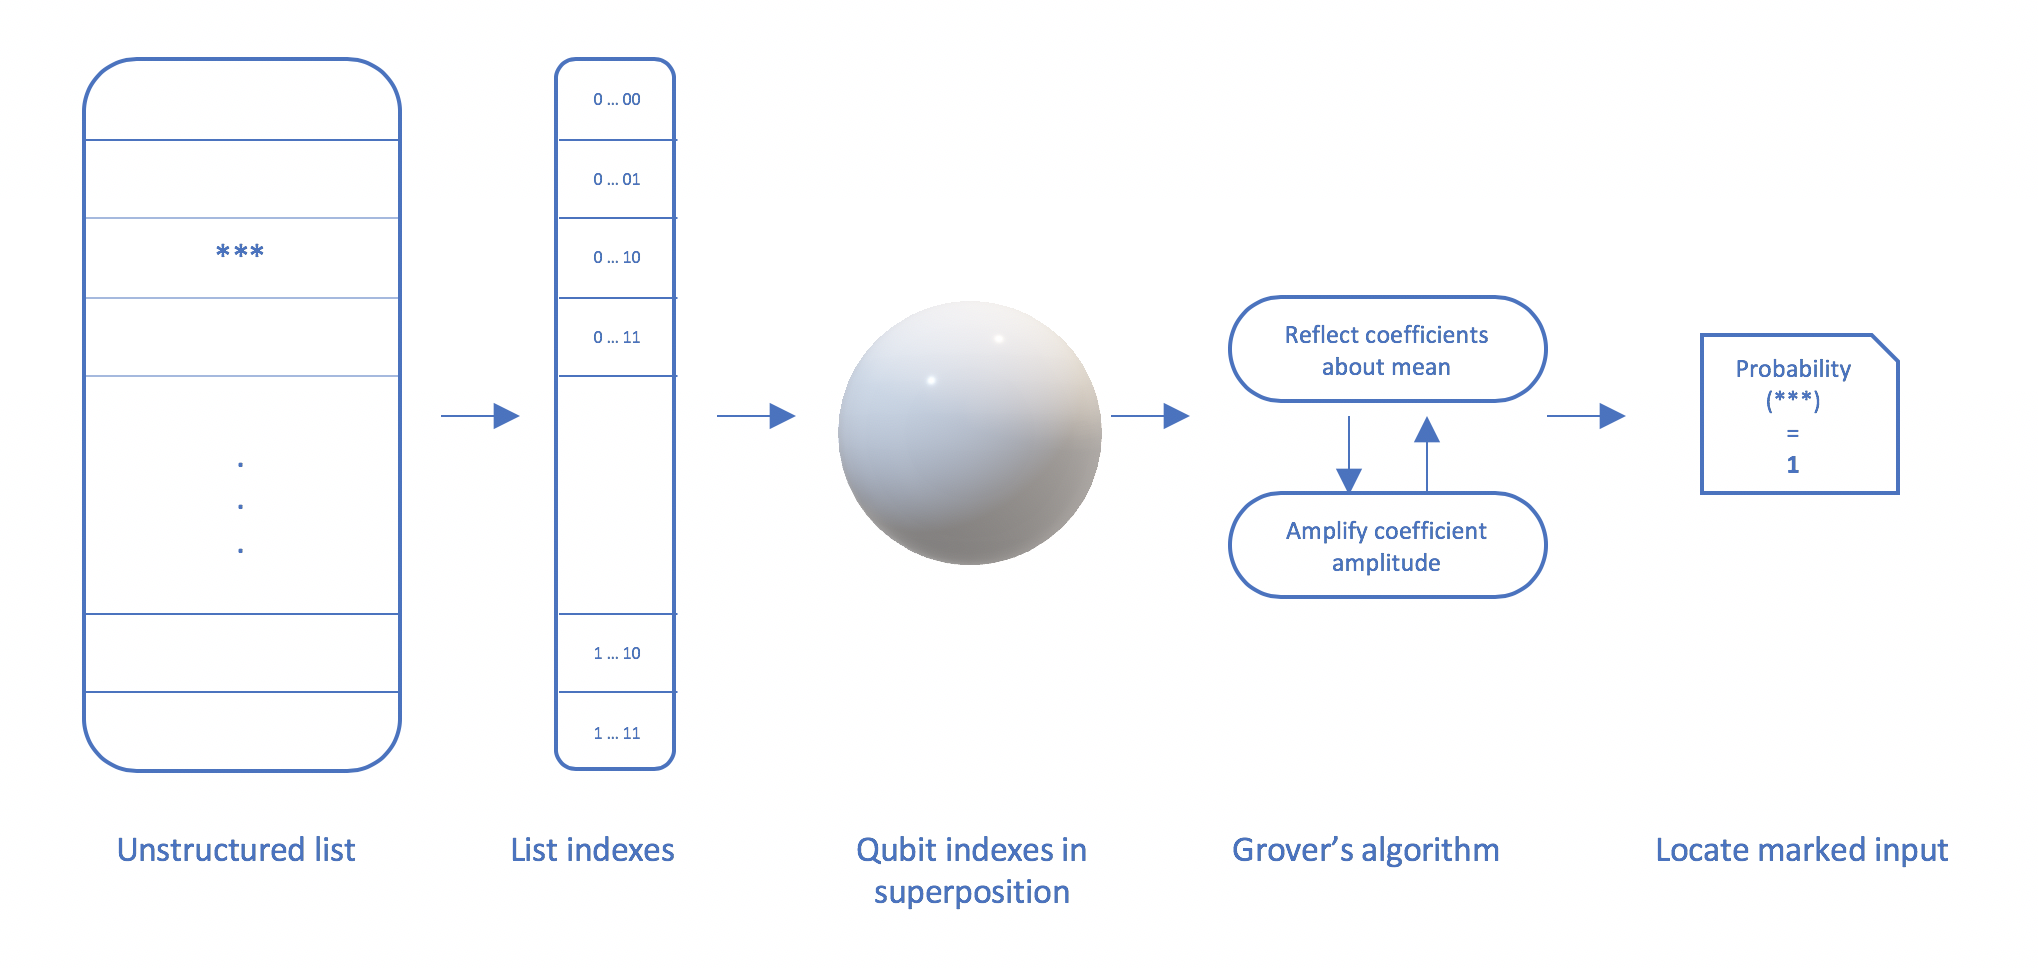
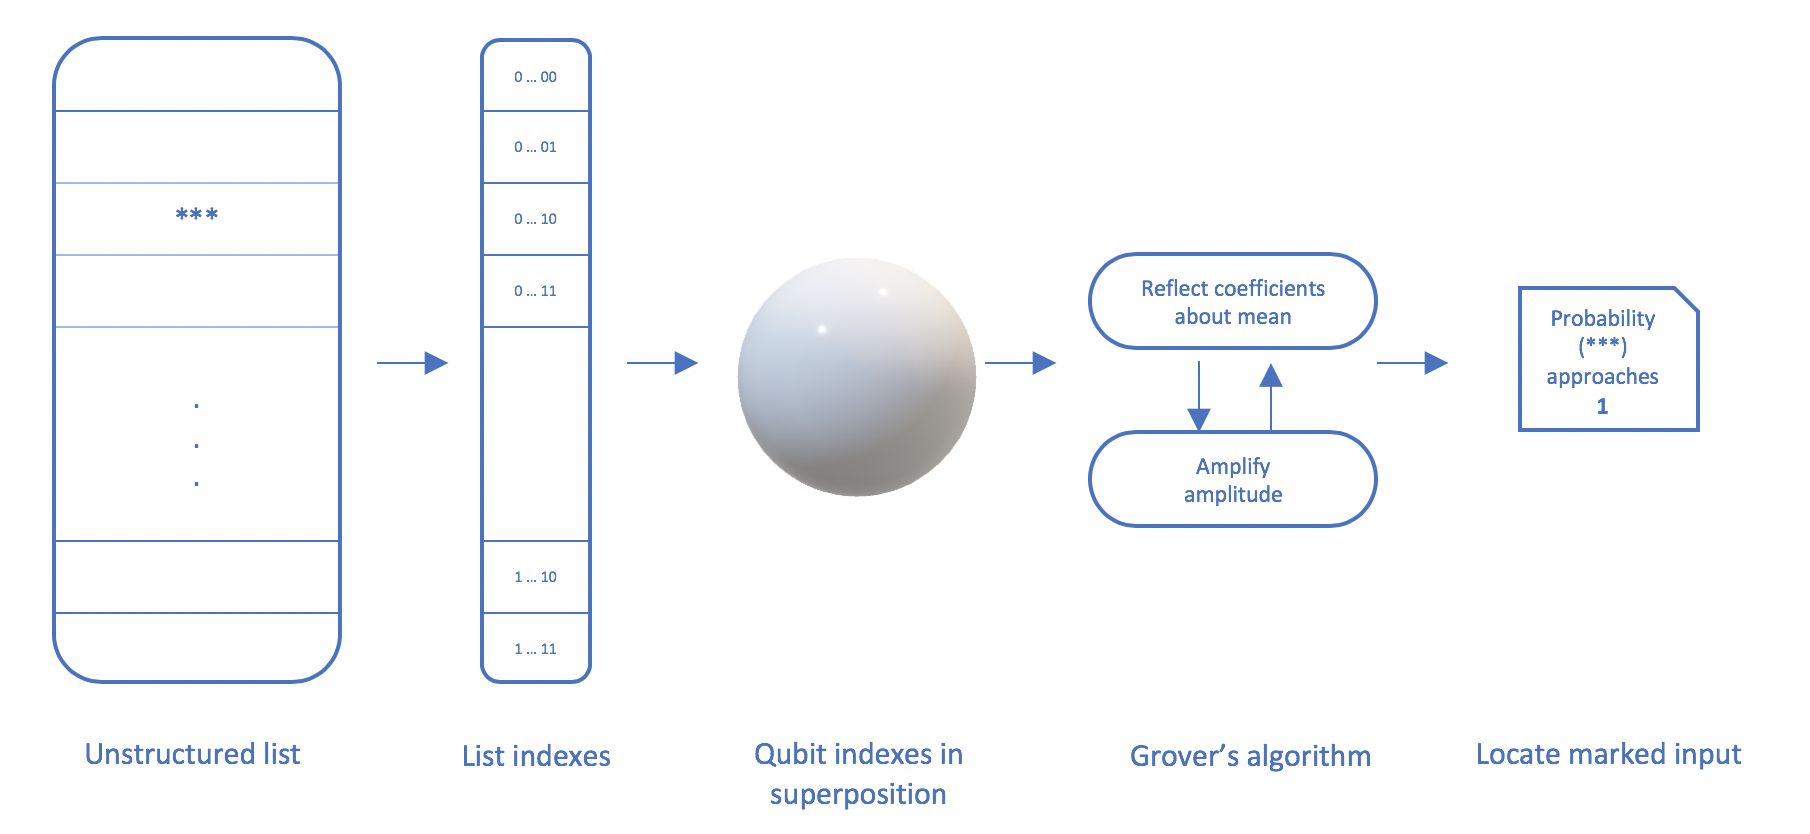
Equals one -> approaches one

diff --git a/articles/quickstarts/search.md b/articles/quickstarts/search.md
@@ -24,7 +24,7 @@ You can build Grover's search algorithm with just a few lines of code.
 
 Grover's algorithm asks whether an item in a list is the one we are searching for. It does this by constructing a quantum superposition of the indexes of the list, with each coefficient, or probability amplitude, representing the probability of that specific index being the one you are looking for.
 
-At the heart of the algorithm are two steps that incrementally boost the coefficient of the index that we are looking for, until the probability amplitude of that coefficient is one.
+At the heart of the algorithm are two steps that incrementally boost the coefficient of the index that we are looking for, until the probability amplitude of that coefficient approaches one.
 
 The number of incremental boosts is less than the number of items in the list. This is why Grover's search algorithm performs the search in less steps than any classical algorithm.
 
